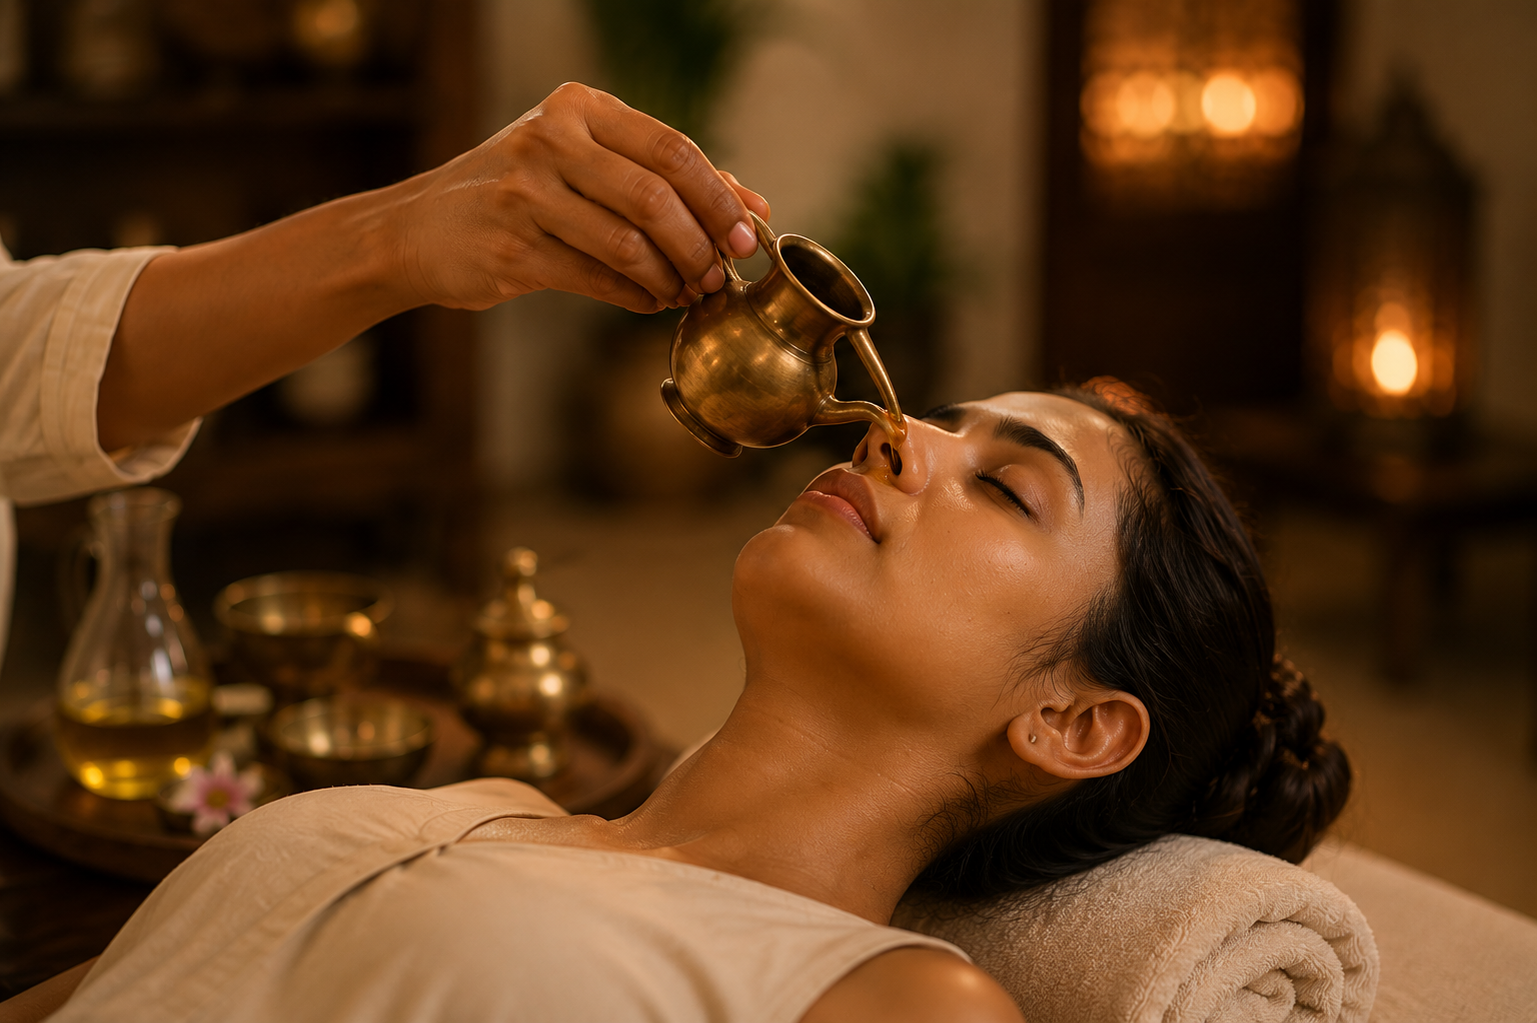
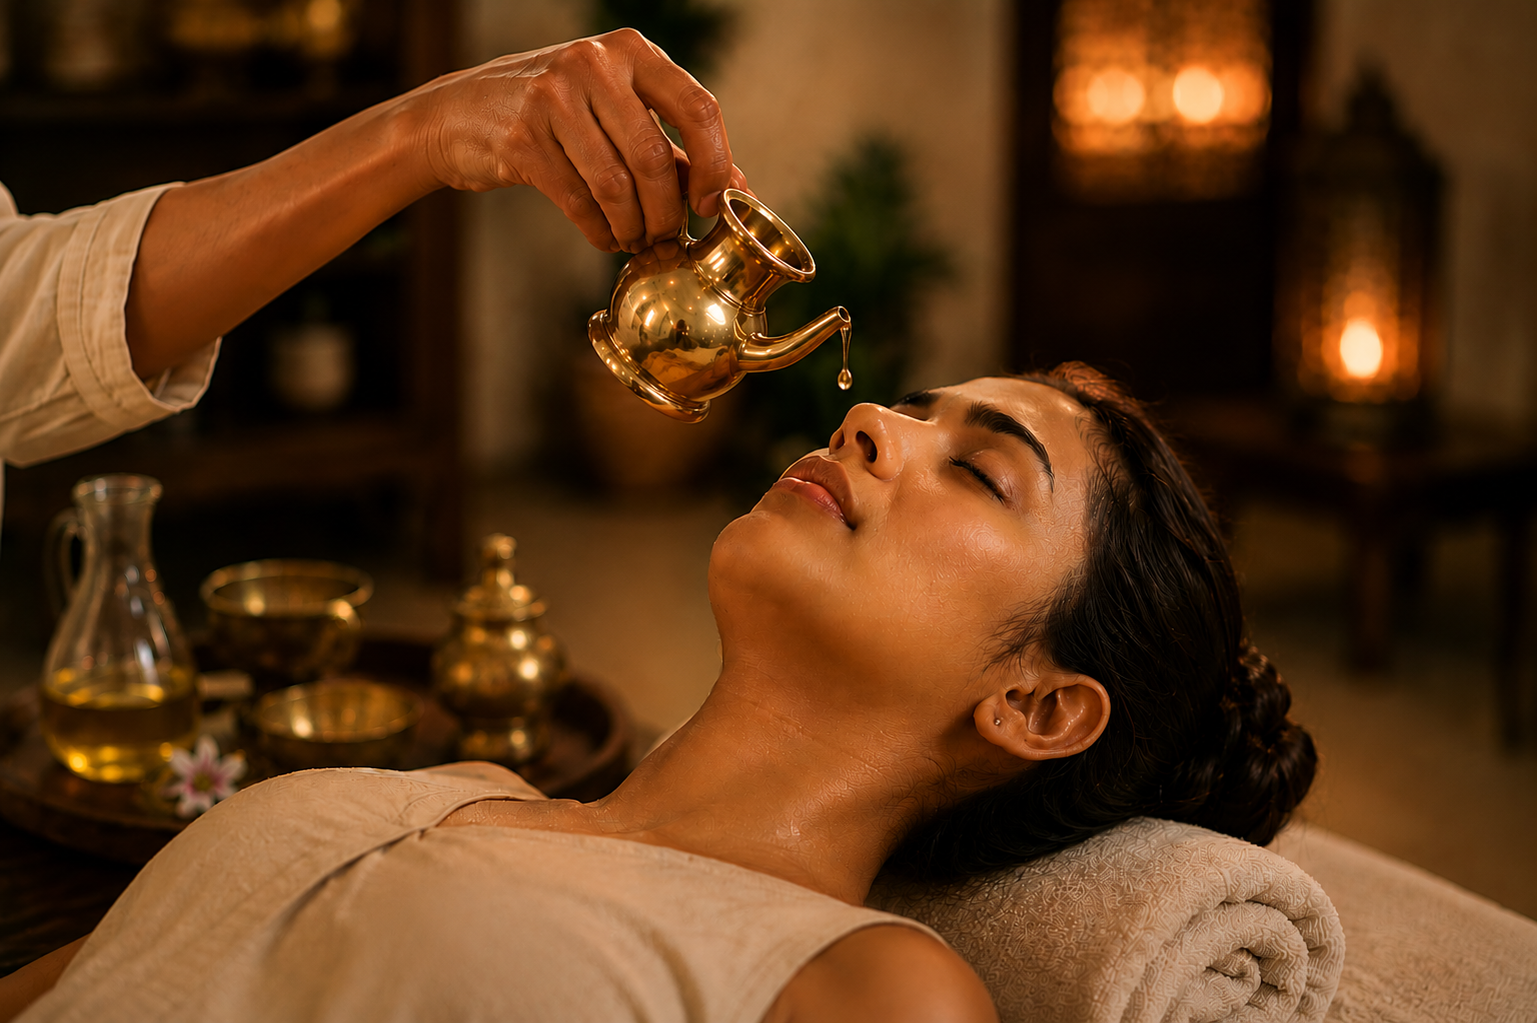
Added a new image and content in wellness

diff --git a/src/pages/OurProgram/ProgramDetail.jsx b/src/pages/OurProgram/ProgramDetail.jsx
@@ -146,67 +146,208 @@ export default function ProgramDetail() {
 
         </div>
 
-        {/* BENEFITS */}
-        <div className="mt-28">
+   {/* BENEFITS */}
+<div className="mt-32">
 
-          <div className="flex items-center justify-center mb-6">
+  {/* TAG */}
+  <div className="flex items-center justify-center mb-6">
 
-            <span className="text-[11px] tracking-[0.38em] uppercase text-[#C9A75B] px-6 py-2 rounded-full bg-[#1E7A3A]/5 border border-[#1E7A3A]/10">
-              Benefits
-            </span>
+    <span className="text-[11px] tracking-[0.38em] uppercase text-[#C9A75B] px-6 py-2 rounded-full bg-[#1E7A3A]/5 border border-[#1E7A3A]/10">
+      Benefits
+    </span>
+
+  </div>
+
+  {/* TITLE */}
+  <h3 className="text-3xl md:text-5xl font-serif text-[#1E7A3A] text-center leading-tight mb-20">
+    Measurable
+    <br />
+    Biological Outcomes
+  </h3>
+
+  {/* BENEFIT TIMELINE */}
+  <div className="relative max-w-5xl mx-auto">
+
+    {/* CENTER LINE */}
+    <div className="absolute left-[27px] top-0 bottom-0 w-px bg-gradient-to-b from-[#C9A75B] via-[#1E7A3A]/20 to-transparent" />
+
+    <div className="space-y-10">
+
+      {program.benefits.map((benefit, i) => (
+
+        <div
+          key={i}
+          className="group relative flex items-start gap-8"
+        >
+
+          {/* PREMIUM GLOW ICON */}
+          <div
+            className="
+              relative
+              z-10
+
+              min-w-[56px]
+              w-14
+              h-14
+
+              rounded-full
+
+              bg-white
+
+              border
+              border-[#1E7A3A]/10
+
+              shadow-[0_15px_40px_rgba(0,0,0,0.08)]
+
+              flex
+              items-center
+              justify-center
+            "
+          >
+
+            {/* INNER GLOW */}
+            <div
+              className="
+                absolute
+                inset-2
+
+                rounded-full
+
+                bg-gradient-to-br
+                from-[#1E7A3A]
+                via-[#174EA6]
+                to-[#C9A75B]
+
+                opacity-90
+
+                blur-[2px]
+
+                transition-all
+                duration-700
+
+                group-hover:scale-[1.8]
+                group-hover:opacity-40
+              "
+            />
+
+            {/* CENTER CORE */}
+            <div
+              className="
+                relative
+                z-10
+
+                w-4
+                h-4
+
+                rounded-full
+
+                bg-white
+
+                shadow-[0_0_20px_rgba(255,255,255,0.95)]
+
+                transition-all
+                duration-700
+
+                group-hover:scale-125
+              "
+            />
+
+            {/* OUTER GLOW */}
+            <div
+              className="
+                absolute
+                inset-0
+
+                rounded-full
+
+                bg-[#174EA6]/20
+
+                blur-xl
+
+                opacity-0
+
+                transition-all
+                duration-700
+
+                group-hover:opacity-100
+                group-hover:scale-[2]
+              "
+            />
 
           </div>
 
-          <h3 className="text-3xl md:text-5xl font-serif text-[#1E7A3A] text-center leading-tight mb-14">
-            Measurable
-            <br />
-            Biological Outcomes
-          </h3>
+          {/* CONTENT CARD */}
+          <div
+            className="
+              relative
+              overflow-hidden
 
-          <div className="grid md:grid-cols-2 gap-6">
+              flex-1
 
-            {program.benefits.map((benefit, i) => (
+              rounded-[32px]
 
-              <div
-                key={i}
-                className="group relative overflow-hidden rounded-[30px] bg-white border border-[#1E7A3A]/10 p-8 shadow-[0_15px_50px_rgba(0,0,0,0.05)]"
-              >
+              bg-white/80
+              backdrop-blur-xl
 
-                {/* PREMIUM OVERLAY */}
-                <div
-                  className="absolute inset-0 opacity-0 group-hover:opacity-100 transition-all duration-700"
-                  style={{
-                    background:
-                      "linear-gradient(to top right, rgba(30,122,58,0.82), rgba(23,78,166,0.55), rgba(0,0,0,0.18))",
-                  }}
-                />
+              border
+              border-white/60
 
-                {/* CONTENT */}
-                <div className="relative z-10 flex items-start gap-5">
+              shadow-[0_25px_70px_rgba(0,0,0,0.06)]
 
-                  {/* ICON */}
-                  <div className="w-14 h-14 rounded-2xl bg-[#1E7A3A] flex items-center justify-center text-white text-xl shadow-[0_10px_30px_rgba(30,122,58,0.22)] group-hover:bg-white group-hover:text-[#174EA6] transition-all duration-500">
-                    ✦
-                  </div>
+              p-8
+            "
+          >
 
-                  {/* TEXT */}
-                  <div>
+            {/* PREMIUM GRADIENT */}
+            <div
+              className="
+                absolute
+                inset-0
 
-                    <p className="text-[#1E7A3A] text-lg leading-[1.8] group-hover:text-white transition-all duration-500">
-                      {benefit}
-                    </p>
+                opacity-0
+                group-hover:opacity-100
 
-                  </div>
+                transition-all
+                duration-700
+              "
+              style={{
+                background:
+                  "linear-gradient(to right, rgba(30,122,58,0.08), rgba(23,78,166,0.08), transparent)",
+              }}
+            />
 
-                </div>
+            {/* NUMBER */}
+            <div className="absolute top-6 left-8">
 
-              </div>
+              <span className="text-[58px] md:text-[72px] font-serif text-[#1E7A3A]/8 leading-none">
+                0{i + 1}
+              </span>
 
-            ))}
+            </div>
+
+            {/* TEXT */}
+            <div className="relative z-10 pl-24">
+
+              <p className="text-[20px] md:text-[24px] leading-[1.8] font-serif text-[#1E7A3A]">
+                {benefit}
+              </p>
+
+              {/* LINE */}
+              <div className="mt-5 w-24 h-px bg-gradient-to-r from-[#C9A75B] to-transparent" />
+
+            </div>
 
           </div>
 
         </div>
+
+      ))}
+
+    </div>
+
+  </div>
+
+</div>
 
         {/* BUTTONS */}
         <div className="flex flex-col md:flex-row items-center justify-center gap-6 mt-24">

diff --git a/src/pages/Explore/Blog.jsx b/src/pages/Explore/Blog.jsx
@@ -60,12 +60,6 @@ export const blogData = [
           "What this means in plain language: a dip in your HRV on a Monday morning might be your body's way of flagging that an infection, a crash in immune function, or a spike in inflammation is coming days before you reach for any medication.",
         ],
 
-        // list: [
-        //   "Detects autonomic nervous system stress",
-        //   "Predicts recovery capacity",
-        //   "Measures resilience to environmental pressure",
-        //   "Tracks inflammation before symptoms appear",
-        // ],
       },
 
       {
